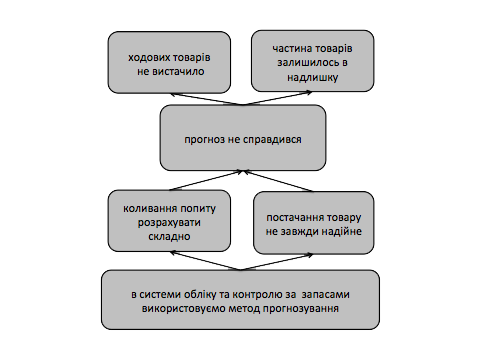
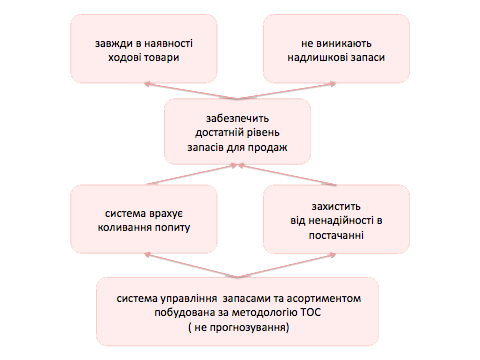
t7egr

diff --git a/src/styles/about.scss b/src/styles/about.scss
@@ -271,7 +271,7 @@ p.problems__item-text:nth-of-type(2n) {
 
 .separator {
   width: 100%;
-  padding: 38px 20px 38px 10%;
+  padding: 27px 20px 27px 10%;
   text-align: left;
   color: #fff;
   background-color: #252525;
@@ -282,7 +282,7 @@ p.problems__item-text:nth-of-type(2n) {
     max-width: 1536px;
     font-size: 24px;
     letter-spacing: 3px;
-    margin-bottom: 30px;
+    margin-bottom: 20px;
   }
 
   &__text {
@@ -396,6 +396,7 @@ p.problems__item-text:nth-of-type(2n) {
   max-width: 1536px;
   margin: 0px auto 0;
   padding: 0px;
+  background-color: #ececec;
 }
 
 .slides {
@@ -409,7 +410,7 @@ p.problems__item-text:nth-of-type(2n) {
 }
 .slide {
   list-style-type: none;
-  height: 420px;
+  height: 450px;
   width: 5%;
   overflow: hidden;
   transition: all 500ms linear;
@@ -432,11 +433,11 @@ p.problems__item-text:nth-of-type(2n) {
 }
 
 .brand1.active {
-  background-image: url("../assets/problems-scheme-1.png");
+  background-image: url("../assets/problems-scheme-2.png");
 }
 
 .brand2.active {
-  background-image: url("../assets/problems-scheme-2.png");
+  background-image: url("../assets/problems-scheme-1.png");
 }
 
 .slide a.action {
@@ -445,16 +446,17 @@ p.problems__item-text:nth-of-type(2n) {
   position: relative;
 }
 .slide a.action span {
-  font-weight: 500;
-  color: #111;
-  transform: rotate(270deg);
-  position: absolute;
-  top: 20%;
-  width: 180px;
-  left: -25%;
-  height: 100px;
-  text-transform: uppercase;
-  letter-spacing: 5px;
+  font-weight: 400;
+    font-size: 14px;
+    color: #111;
+    transform: rotate(270deg);
+    position: absolute;
+    top: 25%;
+    width: 250px;
+    left: -75%;
+    height: 100px;
+    text-transform: uppercase;
+    letter-spacing: 1px;
 }
 .slide-content {
   display: flex;

diff --git a/src/pages/about.html b/src/pages/about.html
@@ -358,7 +358,7 @@
         <div class="container-slides">
           <ul class="slides">
             <li class="slide active brand1">
-              <a href="#" class="action"><span>Зараз</span></a>
+              <a href="#" class="action"><span>&#8593; Повернутись до проблем</span></a>
               <div class="slide-content">
                 <h2>Зараз так</h2>
                 <p>
@@ -367,7 +367,7 @@
               </div>
             </li>
             <li class="slide brand2">
-              <a href="#" class="action"><span>А можна так</span></a>
+              <a href="#" class="action"><span>&#8595; Подивись, краще так</span></a>
               <div class="slide-content">
                 <h2>А можна так</h2>
                 <p>
